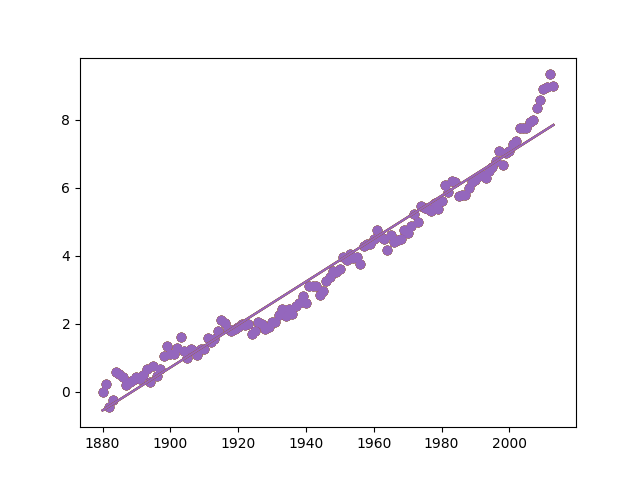
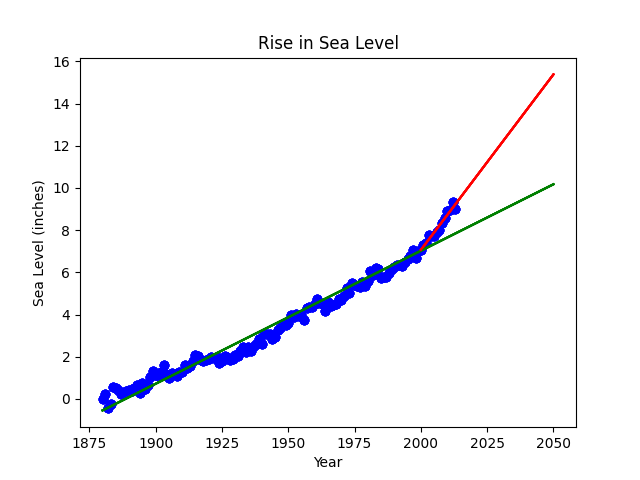
final.

diff --git a/sea_level_predictor.py b/sea_level_predictor.py
@@ -6,20 +6,34 @@ def draw_plot():
     # Read data from file
     df = pd.read_csv('epa-sea-level.csv', parse_dates=True)
     # Create scatter plot
+    # The x label should be Year, the y label should be Sea Level (inches), and the title should be Rise in Sea Level.
     x = df['Year']
     y = df['CSIRO Adjusted Sea Level']
-    plt.scatter(x, y)
+    plt.scatter(x, y, color='blue')
+    
     # Create first line of best fit
     result = linregress(x.to_numpy(), y.to_numpy())
     slope = result.slope
     intercept = result.intercept
-    plt.plot(x, intercept + slope * x, '-')
+    ext_years = pd.Series(range(1880,2051))
+    line = [slope * i + intercept for i in ext_years]
+    plt.plot(ext_years, line, '-', color='green')
 
     # Create second line of best fit
-
-
+    cur_df = df.loc[(df['Year'] >= 2000)]
+    x = cur_df['Year']
+    y = cur_df['CSIRO Adjusted Sea Level']
+    result = linregress(x.to_numpy(), y.to_numpy())
+    slope = result.slope
+    intercept = result.intercept
+    ext_years = pd.Series(range(2000,2051))
+    line = [slope * i + intercept for i in ext_years]
+    plt.plot(ext_years, line, '-', color='red')
+    
     # Add labels and title
-
+    plt.xlabel('Year')
+    plt.ylabel('Sea Level (inches)')
+    plt.title('Rise in Sea Level')
     
     # Save plot and return data for testing (DO NOT MODIFY)
     plt.savefig('sea_level_plot.png')
